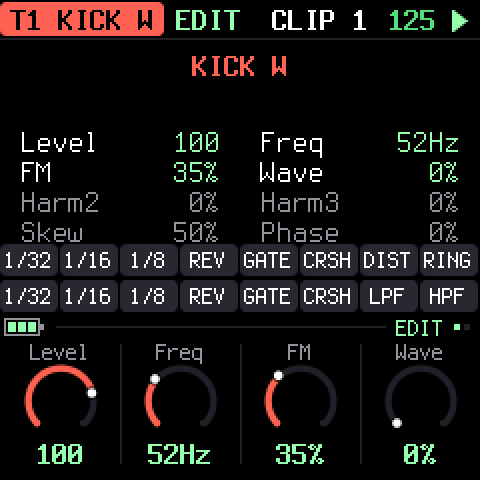
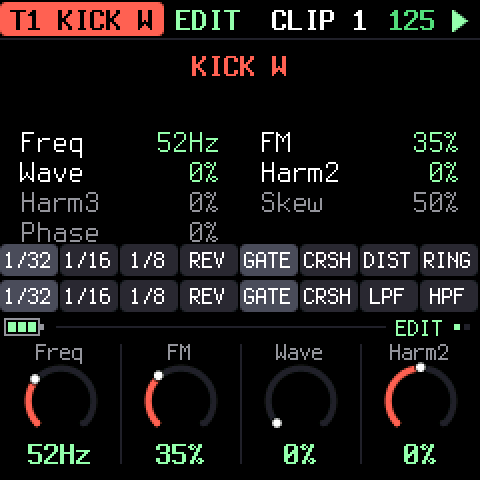
ok

diff --git a/firmware/src/tribe/ui.c b/firmware/src/tribe/ui.c
@@ -83,11 +83,11 @@ static int clip_has(const clip_t *c) { return c->on[0] | c->on[1]; }
 static int nsteps_page(void) { return LEN_OF(cur_clip()) / 16; }
 static uint16_t tcol(int t) { return TRK_COL[t % NTRK]; }
 
-/* the pages of a group: the engine's pots, and the track's LEVEL first on EDIT (it belongs to the track, not the clip) */
+/* the pages of a group: the engine's pots (the track's level is on the SEL page, and on CLIPS) */
 #define PIX_LFO 110                                    /* the LFO's six controls: PIX_LFO + LFO_* */
 static int grp_count(int g)
 {
-    int n = eng_nparams(cur_clip()->eng), i, c = g == PG_EDIT;
+    int n = eng_nparams(cur_clip()->eng), i, c = 0;
     if (g == PG_LFO)
         return eng_info(cur_clip()->eng)->kind == EK_SYNTH ? NLFO : 0;     /* the LFO is for synths; a drum hit is too short for one */
     for (i = 0; i < n; i++)
@@ -216,11 +216,6 @@ static int param_ix(int slot)
         return slot == 0 ? PIX_LEVEL : -1;
     if (ui.grp == PG_LFO)
         return k < NLFO ? PIX_LFO + k : -1;
-    if (ui.grp == PG_EDIT) {
-        if (k == 0)
-            return PIX_LEVEL;
-        k--;
-    }
     return eng_param_at(cur_clip()->eng, ui.grp, k / 4, k % 4);
 }
 
@@ -561,6 +556,7 @@ static void key_down(int k)
         break;
     case V_PARAM:
     case V_GLO:
+    case V_COMMON:                                       /* SEL too: the keys play the track, or scatter, as on the other sound pages */
         if (dk_playing) {                                /* playing: the second row is the scatter FX, not notes */
             ui.held_scat[k] = (uint8_t)(w + 1);
             ui.held_trk[k] = ui.trk;
@@ -970,14 +966,6 @@ static void draw_param(void)
             text_r(110 + (k & 1 ? 120 : 0), 44 + (k >> 1) * 15, &FONT_S, lv, on ? C_HI : C_GRAY);
         }
         return;
-    }
-    if (ui.grp == PG_EDIT) {                            /* the track's level heads the EDIT list */
-        char lv[8];
-        int k = ui.page[ui.grp] == 0;
-        put_i(lv, proj.set.level[ui.trk]);
-        cv_text(10, 44, &FONT_S, "Level", k ? C_WHITE : C_GRAY);
-        text_r(110, 44, &FONT_S, lv, k ? C_HI : C_GRAY);
-        row = 1;
     }
     for (i = 0; i < n; i++) {
         int g = eng_group(c->eng, i), k;
@@ -1426,7 +1414,7 @@ static void leds(void)
                         kd |= m;
                 }
             }
-        } else if ((ui.view == V_PARAM || ui.view == V_GLO) && dk_playing) {
+        } else if ((ui.view == V_PARAM || ui.view == V_GLO || ui.view == V_COMMON) && dk_playing) {
             for (i = 0; i < 16; i++) {
                 uint32_t m = 1u << WHITE_K[i];
                 if (i < 8 ? dk_scat[ui.trk] == i + 1 : dk_scat_g == i - 7)

diff --git a/firmware/src/dsp/acid.h b/firmware/src/dsp/acid.h
@@ -8,6 +8,7 @@
  *  EnvMod   depth of the filter envelope, which opens at each new note and closes over 1.5 x the note
  *           decay + 60 ms; an accented note opens it deeper and plays louder (Accent)
  *  Decay    length of the note (time constant 10 ms .. 2.4 s)
+ *  Sustain  the level a held note settles at (0 = it decays away, as the Cycles' do); the gate's end releases it
  *  P.Dpth   pitch envelope: centre = none, up = starts higher, down = lower (+-24 semitones, 21 ms)
  *  Slide    glide time of a slid note (5 .. 300 ms): the pitch glides, the oscillator and the filter keep
  *           running, the envelope opens again without a new attack
@@ -30,6 +31,7 @@ enum {
     ACID_DECAY, ACID_ENVMOD, ACID_PDEPTH, ACID_SLIDE,      /* page 2 (ENV) */
     ACID_TUNE,                                             /* page 3 (EDIT) */
     ACID_DRIVE, ACID_DIST, ACID_DISTTYPE,                  /* FX page */
+    ACID_SUSTAIN,                                          /* ENV page, page 2 */
     ACID_NPARAMS
 };
 
@@ -50,6 +52,7 @@ typedef struct acid {
     float drive_g;           /* gain into the filter */
     float dist_g, dist_wet, dist_norm;   /* the distortion after it: gain, how much of it (fades in over the first pots), 1 / tanh(gain) */
     int dist_type;           /* 0 soft, 1 hard, 2 fold */
+    float sustain;           /* the level the decay settles at while the gate is held, 0 .. 1 */
     float rel_c;             /* the gate's release: per-sample multiplier */
     float penv_c;            /* pitch envelope: per control step (21 ms) */
 

diff --git a/tests/host/acid_test.c b/tests/host/acid_test.c
@@ -195,6 +195,32 @@ int main(void)
     CHECK(fabs(f - 220.0) < 6.0, "slid note settles at %.1f Hz", f);
     CHECK(rms(buf + 100, 300) > 0.1, "the slide dropped out (rms %g)", rms(buf + 100, 300));
 
+    /* sustain: a short decay settles on the level while the gate is held, and the gate ends it */
+    acid_init(&a);
+    open_filter(&a);
+    acid_set(&a, ACID_DECAY, 30);
+    acid_set(&a, ACID_SUSTAIN, 100);
+    acid_note_on(&a, 45, 0, 0);
+    render(&a, buf, SR);
+    r1 = rms(buf + SR * 8 / 10, 4410);
+    acid_init(&a);
+    open_filter(&a);
+    acid_set(&a, ACID_DECAY, 30);
+    acid_note_on(&a, 45, 0, 0);
+    render(&a, buf, SR);
+    r2 = rms(buf + SR * 8 / 10, 4410);
+    CHECK(r2 < 0.001 && r1 > 0.1, "sustain: rms %g held, %g with none", r1, r2);
+    acid_note_off(&a);
+    acid_init(&a);
+    open_filter(&a);
+    acid_set(&a, ACID_DECAY, 30);
+    acid_set(&a, ACID_SUSTAIN, 100);
+    acid_note_on(&a, 45, 0, 0);
+    render(&a, buf, SR / 2);
+    acid_note_off(&a);
+    render(&a, buf, SR / 2);
+    CHECK(rms(buf + SR / 4, 2000) < 0.001, "the sustained note does not end with the gate (%g)", rms(buf + SR / 4, 2000));
+
     /* Drive and Dist: off is the plain sound; on, a brighter, denser one, still bounded; each type works */
     {
         static float ref[8000], dd[8000];

diff --git a/firmware/src/dsp/acid.c b/firmware/src/dsp/acid.c
@@ -19,6 +19,7 @@ static const x0x_param_t params[ACID_NPARAMS] = {
     { "Drive", 127, 0, 0 },          /* gain into the filter, 1 .. 8; 0 = off */
     { "Dist", 127, 0, 0 },           /* the distortion after the filter, gain 1 .. 16; 0 = off */
     { "DrvTyp", 2, 0, type_names },  /* what the distortion does */
+    { "Sustain", 127, 0, 0 },        /* 0 .. 1: where the decay settles while the gate is held; 0 = it dies away */
 };
 
 int acid_nparams(void) { return ACID_NPARAMS; }
@@ -61,6 +62,7 @@ void acid_set(acid_t *b, int i, int v)
         b->dist_norm = 1.0f / fm_tanhf(b->dist_g);
         break;
     case ACID_DISTTYPE: b->dist_type = v; break;
+    case ACID_SUSTAIN: b->sustain = n; break;
     }
 }
 
@@ -234,7 +236,10 @@ void acid_render(acid_t *b, float *out, int n)
                 b->att_step = 0.0f;
             }
         } else {
-            amp *= b->gate ? b->amp_c : (b->amp_c < b->rel_c ? b->amp_c : b->rel_c);
+            if (b->gate)
+                amp = b->sustain + (amp - b->sustain) * b->amp_c;          /* the decay settles on the sustain level */
+            else
+                amp *= b->amp_c < b->rel_c ? b->amp_c : b->rel_c;          /* the gate ends: the release */
         }
         b->amp = amp;
         ym = fm_tanhf(ym * 2.0f * b->gain);

diff --git a/firmware/src/tribe/engines.c b/firmware/src/tribe/engines.c
@@ -92,10 +92,10 @@ const x0x_param_t *eng_param(int id, int i)
 /* which page a pot lives on: by its name, until an engine says otherwise */
 int eng_group(int id, int i)
 {
-    static const char *const hide[] = {"Rev", "Dly", "Pan", "Accent", "Veloc", "Volume", "Click", "ClkDec", 0};
+    static const char *const hide[] = {"Rev", "Dly", "Pan", "Accent", "Veloc", "Volume", "Level", "Click", "ClkDec", 0};
     static const char *const fx[] = {"Drive", "Dist", "DrvTyp", "Crush", "Fold", "Wfold", "Reson", "Boost", 0};
     static const char *const env[] = {"Attack", "Decay", "P.Dpth", "Pitch", "AccDec", "EnvMod", "Slide", "Tail",
-                                      "PchShp", "SwpShp", "SwpDpt", "Curve", "FMSnap", "Dur", 0};
+                                      "PchShp", "SwpShp", "SwpDpt", "Curve", "FMSnap", "Dur", "Sustain", 0};
     static const char *const lfo[] = {"LfoRt", "LfoDpt", "LfoShp", "LfoTgt", 0};
     const x0x_param_t *p = eng_param(id, i);
     const tribe_eng_t *e = eng_info(id);

diff --git a/docs/MANUAL.md b/docs/MANUAL.md
@@ -177,7 +177,7 @@ when the track's pattern ends, in whatever direction it plays.
 four knobs edit the page; the name and value are under each knob. When a group has more than four
 parameters there are dots in the strip and OCT-/OCT+ (or pressing the button again) flip pages.
 
-![EDIT: the kick's frequency, FM, wave and level](img/screen-edit.png)
+![EDIT: the kick's frequency, FM, wave and harmonic 2](img/screen-edit.png)
 
 ![FX: drive, fold, reson and crush](img/screen-fx.png)
 
@@ -224,7 +224,7 @@ KNOB 1 on this page is the track's level.
 
 ## 8. Scatter effects
 
-While it **plays**, the second row of keys on a sound page (FX, ENV, LFO, EDIT) or on GLO is not for notes
+While it **plays**, the second row of keys on a sound page (FX, ENV, LFO, EDIT), on SEL or on GLO is not for notes
 but for **scatter effects**, held for as long as you press. The first eight act on the selected
 track, the last eight on the whole mix:
 
@@ -268,7 +268,8 @@ how long you held the key). Stopped, REC just plays.
 
 **SEL** is the page of what every track has. Each track is a column: the wide bar is its live level
 (after the volume and the mute), the white tick the volume, and the two thin bars its sends.
-Black keys pick the track.
+Black keys pick the track. The white keys work as on the other sound pages: they play the track when
+it is stopped, and are the scatter keys while it plays.
 
 ![SEL: volume, the two sends and engine](img/screen-sel.png)
 
@@ -430,22 +431,23 @@ shows; every knob is 0–127 underneath.
 
 | Engine | FX | ENV | EDIT |
 |---|---|---|---|
-| KICK W | Drive, Fold, Reson, Crush | PchShp, Dur, Curve | Level, Freq, FM, Wave, Harm2, Harm3, Skew, Phase |
-| KICK P | Drive, Wfold, Reson, Crush, Boost | Dur, SwpShp, SwpDpt, FMSnap | Level, Freq, Morph, FMDpt, FMRat |
-| 909 BD | Drive, Dist | Attack, Decay, P.Dpth, Pitch | Level, Tune |
-| 909 SD | Drive, Dist | (none) | Level, Tune, Tone, Snappy |
-| 909 LT, MT, HT | Drive, Dist | Decay, Attack | Level, Tune |
-| 909 RS | Drive, Dist | (none) | Level, Tune |
-| 909 CP | Drive, Dist | Tail | Level, Tune |
-| 909 CH, OH, CR, RD | Drive, Dist | Decay | Level, Tune |
-| 808 BD | Drive, Dist | Decay, Attack | Level, Tone, Tune |
-| 808 SD | Drive, Dist | Decay | Level, Tone, Snappy, Tune |
-| 808 LT, MT, HT, RS | Drive, Dist | Decay | Level, Tune, Sound |
-| 808 CP | Drive, Dist | Decay, Attack | Level, Tune, Sound |
-| 808 CB, CY, OH, CH | Drive, Dist | Decay | Level, Tune |
+| KICK W | Drive, Fold, Reson, Crush | PchShp, Dur, Curve | Freq, FM, Wave, Harm2, Harm3, Skew, Phase |
+| KICK P | Drive, Wfold, Reson, Crush, Boost | Dur, SwpShp, SwpDpt, FMSnap | Freq, Morph, FMDpt, FMRat |
+| 909 BD | Drive, Dist | Attack, Decay, P.Dpth, Pitch | Tune |
+| 909 SD | Drive, Dist | (none) | Tune, Tone, Snappy |
+| 909 LT, MT, HT | Drive, Dist | Decay, Attack | Tune |
+| 909 RS | Drive, Dist | (none) | Tune |
+| 909 CP | Drive, Dist | Tail | Tune |
+| 909 CH, OH, CR, RD | Drive, Dist | Decay | Tune |
+| 808 BD | Drive, Dist | Decay, Attack | Tone, Tune |
+| 808 SD | Drive, Dist | Decay | Tone, Snappy, Tune |
+| 808 LT, MT, HT, RS | Drive, Dist | Decay | Tune, Sound |
+| 808 CP | Drive, Dist | Decay, Attack | Tune, Sound |
+| 808 CB, CY, OH, CH | Drive, Dist | Decay | Tune |
 | 303 | Drive, DrvTyp | EnvMod, Decay, Slide, AccDec | Cutoff, Reso, Accent, Wave, Tune |
+| ACID | Drive, Dist, DrvTyp | Decay, EnvMod, P.Dpth, Slide, Sustain | Cutoff, Reso, Color, Accent, Tune |
 
-The 303 also has the LFO page (section 6). Every track has its VOLUME and the two sends on SEL.
+The 303 and ACID also have the LFO page (section 6). The track's level is VOLUME on SEL (with the two sends), and KNOB 1 on CLIPS; no sound page has a level of its own.
 
 ---
 
